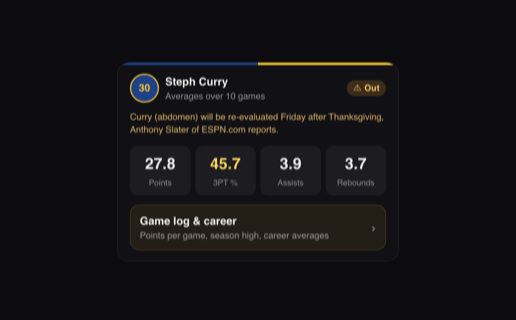
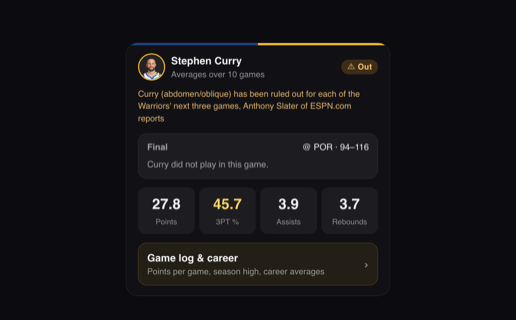
Let users pick any NBA player
The player is now a setting (name or ESPN id). Team, jersey, position,
headshot and team colours come from ESPN. Rename the widget folder to
nba-player.widget and update README and gallery files.

diff --git a/index.jsx b/index.jsx
@@ -1,30 +1,31 @@
-// Steph Curry desktop widget for Übersicht (ESPN data via fetch.py): injury status, live game line,
+// NBA player desktop widget for Übersicht (ESPN data via fetch.py): injury status, live game line,
 // season averages; the button opens the season history (career compare, points trend, best game, game log).
 import { css, React } from "uebersicht";
 
+const PLAYER = "Stephen Curry"; // any NBA player: a name ("LeBron James") or an ESPN athlete id ("1966")
 const LANG = "en"; // "en" or "mn"
 
 const STR = {
   en: {
     final: "Final", pts: "pts", three: "3PT", ast: "ast", reb: "reb", min: "min",
-    notPlaying: (live) => `Steph ${live ? "is not playing" : "did not play"} in this game.`,
+    notPlaying: (n, live) => `${n} ${live ? "is not playing" : "did not play"} in this game.`,
     PTS: "PTS", AST: "AST", REB: "REB", close: "Close", avgTitle: "Averages: season vs career",
-    season: "Season", career: "Career", gp: "GP", hint: "Gold: season average is above his career average.",
+    season: "Season", career: "Career", gp: "GP", hint: "Gold: season average is above the career average.",
     trend: "Season points · by game", best: "Season high", log: "Game log",
     cols: ["Date", "Opp", "W/L", "MIN", "PTS", "REB", "AST", "3PT"],
-    loading: "Loading Steph's stats…", gpAvg: (n) => `Averages over ${n} games`,
+    loading: "Loading player stats…", notFound: (q) => `No NBA player found for "${q}". Check PLAYER in index.jsx.`, gpAvg: (n) => `Averages over ${n} games`,
     tiles: ["Points", "3PT %", "Assists", "Rebounds"],
     btn: "Game log & career", btnSub: "Points per game, season high, career averages",
     injured: (s) => s || "Injured", error: "Widget error", noPython: "Could not run fetch.py. Is python3 installed? (xcode-select --install)",
   },
   mn: {
     final: "Төгссөн", pts: "оноо", three: "3 оноо", ast: "дамж", reb: "самб", min: "мин",
-    notPlaying: (live) => `Steph энэ тоглолтод ${live ? "тоглохгүй байна" : "тоглоогүй"}.`,
+    notPlaying: (n, live) => `${n} энэ тоглолтод ${live ? "тоглохгүй байна" : "тоглоогүй"}.`,
     PTS: "Оноо", AST: "Дамж.", REB: "Самбар", close: "Хаах", avgTitle: "Дундаж: улирал ба карьер",
     season: "Улирал", career: "Карьер", gp: "тогл.", hint: "Шар өнгөтэй тоо: улирлын дундаж карьерынхаас өндөр байна.",
     trend: "Улирлын оноо · тоглолт бүрээр", best: "Улирлын шилдэг", log: "Тоглолтын түүх",
     cols: ["Огноо", "Өрс.", "Ү/Д", "Мин", "Оноо", "Самб", "Дамж", "3PT"],
-    loading: "Steph-ийн мэдээлэл ачаалж байна…", gpAvg: (n) => `${n} тоглолтын дундаж`,
+    loading: "Тоглогчийн мэдээлэл ачаалж байна…", notFound: (q) => `"${q}" нэртэй NBA тоглогч олдсонгүй. index.jsx доторх PLAYER-ийг шалгана уу.`, gpAvg: (n) => `${n} тоглолтын дундаж`,
     tiles: ["Оноо", "3 оноо %", "Дамж.", "Самбар"],
     btn: "Тоглолтын түүх ба карьер", btnSub: "Тоглолт бүрийн оноо, шилдэг тоглолт, карьерын дундаж",
     injured: () => "Бэртэлтэй", error: "Самбар алдаатай", noPython: "fetch.py ажиллаж чадсангүй. python3 суусан эсэхийг шалгана уу (xcode-select --install).",
@@ -32,14 +33,14 @@ const STR = {
 };
 const T = STR[LANG] || STR.en;
 
-export const command = "python3 steph-curry.widget/fetch.py"; // path is relative to the widgets folder
+export const command = `python3 nba-player.widget/fetch.py "${PLAYER.replace(/[^\w .'-]/g, "")}"`; // path is relative to the widgets folder
 export const refreshFrequency = 60 * 1000; // 1 min: fresh within a minute of login or wake
 
 export const initialState = { data: null, error: null, open: false };
 export const updateState = (e, s) => {
   if (e.type === "UB/COMMAND_RAN") {
     if (e.error) return s.data ? s : { ...s, error: T.noPython }; // keep last good data on a transient failure
-    try { return { ...s, data: JSON.parse(e.output), error: null }; } catch { return s; }
+    try { const d = JSON.parse(e.output); return d ? { ...s, data: d, error: null } : s; } catch { return s; } // null = ESPN unreachable
   }
   if (e.type === "TOGGLE") return { ...s, open: !s.open };
   return s;
@@ -60,7 +61,7 @@ function averages(st) {
 const shot = (v) => { const [m, a] = String(v || "").split("-").map(Number); return a ? { m, a, pct: Math.round((m / a) * 100) } : { m: m || 0, a: 0, pct: null }; };
 
 // The line in the game that is on now (or just ended): 3PT first, it is what this widget is for.
-const liveLine = (lv) => {
+const liveLine = (lv, name) => {
   if (!lv) return null;
   const live = lv.state === "in";
   const L = lv.line;
@@ -70,7 +71,7 @@ const liveLine = (lv) => {
       <div className={liveHead}>
         <span className={live ? liveDot : finDot}>{live ? "● LIVE" : T.final}</span>
         <span>{lv.home ? "vs" : "@"} {lv.opp} · {lv.us}–{lv.them}</span>
-        <span className={muted}>{lv.detail}</span>
+        {live && <span className={muted}>{lv.detail}</span>}
       </div>
       {L ? (
         <div className={liveGrid}>
@@ -83,7 +84,7 @@ const liveLine = (lv) => {
           </div>
         </div>
       ) : (
-        <p className={liveNone}>{T.notPlaying(live)}</p>
+        <p className={liveNone}>{T.notPlaying(name, live)}</p>
       )}
     </div>
   );
@@ -92,7 +93,7 @@ const liveLine = (lv) => {
 const AVG = [["PTS", T.PTS], ["AST", T.AST], ["REB", T.REB], ["3P%", "3P%"], ["FG%", "FG%"], ["FT%", "FT%"]];
 const injuryPill = (inj, cls) => inj && <span className={`${pill} ${warnP} ${cls || ""}`}>⚠ {T.injured(inj.status)}</span>;
 
-const detailView = (s, inj, games, dispatch) => {
+const detailView = (p, s, inj, games, dispatch) => {
   const gs = games || [];
   const best = gs.reduce((b, g) => (+g.pts > +(b?.pts ?? -1) ? g : b), null);
   const trend = [...gs].reverse();
@@ -100,7 +101,7 @@ const detailView = (s, inj, games, dispatch) => {
   return (
     <div className={detail}>
       <div className={hdr}>
-        <b className={dName}>Steph Curry</b><span className={muted}>#30 · PG</span>
+        <b className={dName}>{p.name}</b><span className={muted}>{[p.jersey && `#${p.jersey}`, p.pos, p.team].filter(Boolean).join(" · ")}</span>
         {injuryPill(inj)}
         <button className={iconBtn} style={{ marginLeft: inj ? 0 : "auto" }} onClick={() => dispatch({ type: "TOGGLE" })} title={T.close}>✕</button>
       </div>
@@ -167,21 +168,25 @@ const detailView = (s, inj, games, dispatch) => {
 const message = (text) => <div className={wrap}><section className={panel}><p className={muted}>{text}</p></section></div>;
 
 const view = ({ data, error, open }, dispatch) => {
-  const { games, stats, live, injury: inj } = data || {};
+  const { games, stats, live, injury: inj, player: p } = data || {};
+  if (data?.error === "notFound") return message(T.notFound(data.query));
   const s = averages(stats);
-  if (!s) return message(error || T.loading);
+  if (!s || !p) return message(error || T.loading);
+  const hex = (c, d) => `#${/^[0-9a-f]{6}$/i.test(c || "") ? c : d}`;
+  const c1 = hex(p.alt, "8a8a8a"), c2 = hex(p.color, "FFC72C");
   const v = s.season || {};
   return (
     <div className={wrap}>
-      <section className={`${panel} ${gswAccent}`}>
-        {open ? detailView(s, inj, games, dispatch) : <>
+      <section className={panel}>
+        <span className={stripe} style={{ background: `linear-gradient(90deg, ${c1} 50%, ${c2} 50%)` }} />
+        {open ? detailView(p, s, inj, games, dispatch) : <>
           <header className={hdr}>
-            <span className={avatar}>30</span>
-            <span className={btnTxt}><b>Steph Curry</b><span>{T.gpAvg(v.GP ?? "–")}</span></span>
+            <span className={avatar} style={{ borderColor: c2 }}>{p.headshot ? <img src={p.headshot} alt="" /> : p.jersey}</span>
+            <span className={btnTxt}><b>{p.name}</b><span>{T.gpAvg(v.GP ?? "–")}</span></span>
             {injuryPill(inj, right)}
           </header>
           {inj?.note && <p className={note}>{inj.note}</p>}
-          {liveLine(live)}
+          {liveLine(live, p.short)}
           <div className={tiles}>
             {["PTS", "3P%", "AST", "REB"].map((k, i) => (
               <div key={k}><b className={k === "3P%" ? goldTxt : ""}>{v[k] ?? "–"}</b><span>{T.tiles[i]}</span></div>
@@ -206,7 +211,7 @@ export const render = (state, dispatch) => {
 export const className = `top: 40px; left: 24px; width: 360px;`;
 const wrap = css`display: flex; flex-direction: column; gap: 10px; font: 13px/1.45 -apple-system, "SF Pro Text", sans-serif; color: #f2f2f2; -webkit-font-smoothing: antialiased;`;
 const panel = css`position: relative; overflow: hidden; background: rgba(18,18,22,0.76); backdrop-filter: blur(24px); -webkit-backdrop-filter: blur(24px); border-radius: 16px; border: 0.5px solid rgba(255,255,255,0.12); padding: 14px 16px; p { margin: 0; }`;
-const gswAccent = css`&::before { content: ""; position: absolute; inset: 0 0 auto 0; height: 3px; background: linear-gradient(90deg, #1D428A 50%, #FFC72C 50%); }`;
+const stripe = css`position: absolute; inset: 0 0 auto 0; height: 3px;`; // team colours, set inline
 const hdr = css`display: flex; align-items: center; gap: 8px; margin-bottom: 10px;`;
 const right = css`margin-left: auto;`;
 const pill = css`font-size: 11px; font-weight: 700; letter-spacing: 0.02em; padding: 2px 8px; border-radius: 999px; white-space: nowrap;`;
@@ -215,7 +220,7 @@ const muted = css`color: rgba(255,255,255,0.55); font-size: 12px;`;
 const openBtn = css`margin-top: 12px; width: 100%; display: flex; align-items: center; gap: 10px; padding: 10px 12px; border-radius: 12px; cursor: pointer; text-align: left;
   background: rgba(255,199,44,0.08); border: 0.5px solid rgba(255,199,44,0.28); color: #f2f2f2; font: inherit; transition: background .15s;
   &:hover { background: rgba(255,199,44,0.16); }`;
-const avatar = css`width: 34px; height: 34px; border-radius: 50%; background: #1D428A; color: #FFC72C; font-weight: 800; font-size: 13px; display: flex; align-items: center; justify-content: center; border: 1.5px solid #FFC72C;`;
+const avatar = css`flex: none; width: 34px; height: 34px; border-radius: 50%; overflow: hidden; background: rgba(255,255,255,0.08); font-weight: 800; font-size: 13px; display: flex; align-items: center; justify-content: center; border: 1.5px solid; img { width: 100%; height: 100%; object-fit: cover; object-position: top; }`;
 const btnTxt = css`flex: 1; display: flex; flex-direction: column; b { font-size: 14px; } span { font-size: 11.5px; color: rgba(255,255,255,0.55); }`;
 const chev = css`font-size: 20px; color: rgba(255,255,255,0.5);`;
 const detail = css`margin-top: 12px; padding-top: 12px; border-top: 0.5px solid rgba(255,255,255,0.1); max-height: 70vh; overflow-y: auto; margin-right: -8px; padding-right: 8px;

diff --git a/fetch.py b/fetch.py
@@ -1,10 +1,10 @@
-# Fetches Steph Curry's data from ESPN's public JSON and prints one small JSON for the widget
+# Fetches one NBA player's data from ESPN's public JSON and prints one small JSON for the widget
 # (the raw schedule alone is ~1MB, too much to hand to the widget). Stdlib only.
-import datetime as dt, json, urllib.request
+# Usage: python3 fetch.py "Stephen Curry"   (a name, or an ESPN athlete id such as 3975)
+import datetime as dt, json, os, sys, urllib.parse, urllib.request
 
-PLAYER, TEAM = "3975", "GS"  # ESPN athlete id / team abbreviation
 E = "https://site.api.espn.com/apis/site/v2/sports/basketball/nba"
-A = f"https://site.web.api.espn.com/apis/common/v3/sports/basketball/nba/athletes/{PLAYER}"
+CACHE = os.path.join(os.path.dirname(os.path.abspath(__file__)), ".player-ids.json")  # name -> ESPN id
 
 def get(url):
     try:
@@ -13,7 +13,23 @@ def get(url):
     except Exception:
         return None
 
-def games_log():
+def player_id(query):
+    """ESPN athlete id for a name (first NBA match of ESPN's search), cached so it is searched once."""
+    query = query.strip()
+    if query.isdigit(): return query
+    try: cache = json.load(open(CACHE))
+    except Exception: cache = {}
+    key = query.lower()
+    if key not in cache:
+        d = get("https://site.web.api.espn.com/apis/search/v2?type=player&limit=10&query=" + urllib.parse.quote(query)) or {}
+        hit = next((c for r in d.get("results", []) for c in r.get("contents", []) if c.get("defaultLeagueSlug") == "nba"), None)
+        if not hit: return None
+        cache[key] = hit["uid"].rsplit("a:", 1)[-1]
+        try: json.dump(cache, open(CACHE, "w"))
+        except Exception: pass
+    return cache[key]
+
+def games_log(A):
     d = get(f"{A}/gamelog")
     if not d: return None
     L = d.get("labels", [])
@@ -29,9 +45,12 @@ def games_log():
     out.sort(key=lambda x: x["date"] or "", reverse=True)
     return out  # whole season, newest first (~82 rows max)
 
-def live_game(events):
-    """Player's line in the team's live game, or in one that ended < 12h ago. None when there is neither."""
+def live_game(pid, team_id):
+    """The player's line in the team's live game, or in one that ended < 12h ago. None when there is neither."""
+    sched = get(f"{E}/teams/{team_id}/schedule")
+    if not sched: return None
     now = dt.datetime.now(dt.timezone.utc)
+    events = sched.get("events", [])
     live = [e for e in events if e["competitions"][0]["status"]["type"]["state"] == "in"]
     recent = [e for e in events if e["competitions"][0]["status"]["type"]["completed"]
               and now - dt.datetime.fromisoformat(e["date"].replace("Z", "+00:00")) < dt.timedelta(hours=12)]
@@ -41,29 +60,37 @@ def live_game(events):
     comp = d["header"]["competitions"][0]
     line = None
     for t in d.get("boxscore", {}).get("players", []):
-        if t["team"]["abbreviation"] != TEAM: continue
+        if t["team"]["id"] != team_id: continue
         block = t["statistics"][0]
         for a in block["athletes"]:
-            if a["athlete"]["id"] == PLAYER and a.get("stats"):
+            if a["athlete"]["id"] == pid and a.get("stats"):
                 line = dict(zip(block["labels"], a["stats"]))
-    us = next((c for c in comp["competitors"] if c["team"]["abbreviation"] == TEAM), None)
+    us = next((c for c in comp["competitors"] if c["team"]["id"] == team_id), None)
     them = next((c for c in comp["competitors"] if c is not us), None)
     if not (us and them): return None
     return {"state": comp["status"]["type"].get("state"), "detail": comp["status"]["type"].get("shortDetail"),
             "opp": them["team"]["abbreviation"], "home": us.get("homeAway") == "home",
             "us": us.get("score"), "them": them.get("score"), "line": line}
 
-def injury():
-    """ESPN's injury report entry (e.g. status "Out", "Day-To-Day"); None when the player is healthy."""
-    a = (get(A) or {}).get("athlete") or {}
-    i = (a.get("injuries") or [None])[0]
-    return i and {"status": i.get("status"), "note": i.get("shortComment")}
+def main(query):
+    pid = player_id(query)
+    if not pid: return {"error": "notFound", "query": query}
+    A = f"https://site.web.api.espn.com/apis/common/v3/sports/basketball/nba/athletes/{pid}"
+    a = (get(A) or {}).get("athlete")
+    if not a: return None  # ESPN unreachable: print null, the widget keeps its last data
+    t = a.get("team") or {}
+    inj = (a.get("injuries") or [None])[0]
+    ov = get(f"{A}/overview")
+    return {
+        "player": {"name": a.get("displayName"), "short": a.get("lastName") or a.get("displayName"),
+                   "jersey": a.get("jersey"), "pos": (a.get("position") or {}).get("abbreviation"),
+                   "headshot": (a.get("headshot") or {}).get("href"), "team": t.get("abbreviation"),
+                   "color": t.get("color"), "alt": t.get("alternateColor")},
+        "games": games_log(A),
+        "live": live_game(pid, t["id"]) if t.get("id") else None,
+        "stats": ov.get("statistics") if ov else None,
+        "injury": inj and {"status": inj.get("status"), "note": inj.get("shortComment")},
+    }
 
-sched = get(f"{E}/teams/{TEAM.lower()}/schedule")
-ov = get(f"{A}/overview")
-print(json.dumps({
-    "games": games_log(),
-    "live": live_game(sched["events"]) if sched else None,
-    "stats": ov.get("statistics") if ov else None,
-    "injury": injury(),
-}, ensure_ascii=False))
+if __name__ == "__main__":
+    print(json.dumps(main(" ".join(sys.argv[1:]) or "Stephen Curry"), ensure_ascii=False))

diff --git a/README.md b/README.md
@@ -1,13 +1,17 @@
-# Steph Curry widget for Übersicht
+# NBA player widget for Übersicht
 
-A small macOS desktop widget for [Übersicht](https://tracesof.net/uebersicht/) that shows Steph Curry's stats, with 3-point shooting first.
+A small macOS desktop widget for [Übersicht](https://tracesof.net/uebersicht/) that follows **any NBA player you choose**. It shows 3-point shooting first.
 
 ![Widget screenshot](docs/screenshot.png)
 
 - **Season averages:** points, 3PT %, assists, rebounds.
-- **Live game line:** while the Warriors play (and for 12 hours after), shows his points, 3PT made/attempted and %, FG, assists, rebounds, minutes and +/-.
-- **Injury status:** taken from ESPN's injury report, and hidden when he is healthy.
+- **Live game line:** while the player's team plays (and for 12 hours after), it shows:
+  - points;
+  - 3PT made/attempted and %;
+  - FG, assists, rebounds, minutes and +/-.
+- **Injury status:** taken from ESPN's injury report, and hidden when the player is healthy.
 - **Game log & career** (click the button): season vs career averages, points per game, season high, and the full game log.
+- **Team look:** the team colours, headshot, jersey and position all come from ESPN, so the card matches whoever you pick.
 - Refreshes every minute. English or Mongolian.
 
 ## Install
@@ -15,36 +19,55 @@ A small macOS desktop widget for [Übersicht](https://tracesof.net/uebersicht/) 
 You need [Übersicht](https://tracesof.net/uebersicht/) and `python3`. To get `python3`, run `xcode-select --install`, or use Homebrew.
 
 ```bash
-git clone https://github.com/4nand1/steph-curry-widget.git ~/Library/Application\ Support/Übersicht/widgets/steph-curry.widget
+git clone https://github.com/4nand1/nba-player-widget.git ~/Library/Application\ Support/Übersicht/widgets/nba-player.widget
 ```
 
-The folder name must be `steph-curry.widget`, because the widget runs `steph-curry.widget/fetch.py`.
+The folder name must be `nba-player.widget`, because the widget runs `nba-player.widget/fetch.py`.
 
 To update:
 
 ```bash
-git -C ~/Library/Application\ Support/Übersicht/widgets/steph-curry.widget pull
+git -C ~/Library/Application\ Support/Übersicht/widgets/nba-player.widget pull
 ```
 
 To have it on screen from login, turn on **Launch Übersicht when I login** in Übersicht's preferences.
 
-## Settings
+## Pick your player
 
-All settings are at the top of `index.jsx`:
+Open `index.jsx` and change the first setting:
+
+```js
+const PLAYER = "Stephen Curry"; // e.g. "LeBron James", "Victor Wembanyama", or an ESPN id like "1966"
+```
+
+- A name is looked up with ESPN's search once, then cached in `.player-ids.json`.
+- If two players share a name, use the ESPN athlete id. It is the number in the player's ESPN URL, e.g. `espn.com/nba/player/_/id/1966/lebron-james`.
+- If no NBA player matches, the widget says so.
+
+## Other settings
+
+These are at the top of `index.jsx`:
 
 | What | Where |
 |---|---|
 | Language | `const LANG = "en"` (`"en"` or `"mn"`) |
-| Position and width | `export const className` at the bottom of the styles |
+| Position and width | `export const className`, at the bottom of the styles |
 | Refresh rate | `refreshFrequency` (default 1 minute) |
 
 ## How it works
 
-`fetch.py` uses only the Python standard library. It reads ESPN's public JSON endpoints (overview, game log, injury report, team schedule, box score) and prints one small JSON object for the widget. The raw schedule alone is about 1 MB.
+`fetch.py` uses only the Python standard library. It reads ESPN's public JSON endpoints and prints one small JSON object for the widget. The raw schedule alone is about 1 MB. The endpoints it reads:
+
+- player search;
+- athlete record, with team and injury report;
+- overview;
+- game log;
+- team schedule;
+- box score.
 
 ## Disclaimer
 
-This is a fan project. It is not affiliated with or endorsed by the NBA, the Golden State Warriors, Stephen Curry or ESPN. The ESPN endpoints are unofficial and may change without notice.
+This is a fan project. It is not affiliated with or endorsed by the NBA, its teams or players, or ESPN. The ESPN endpoints are unofficial and may change without notice.
 
 ## License
 
